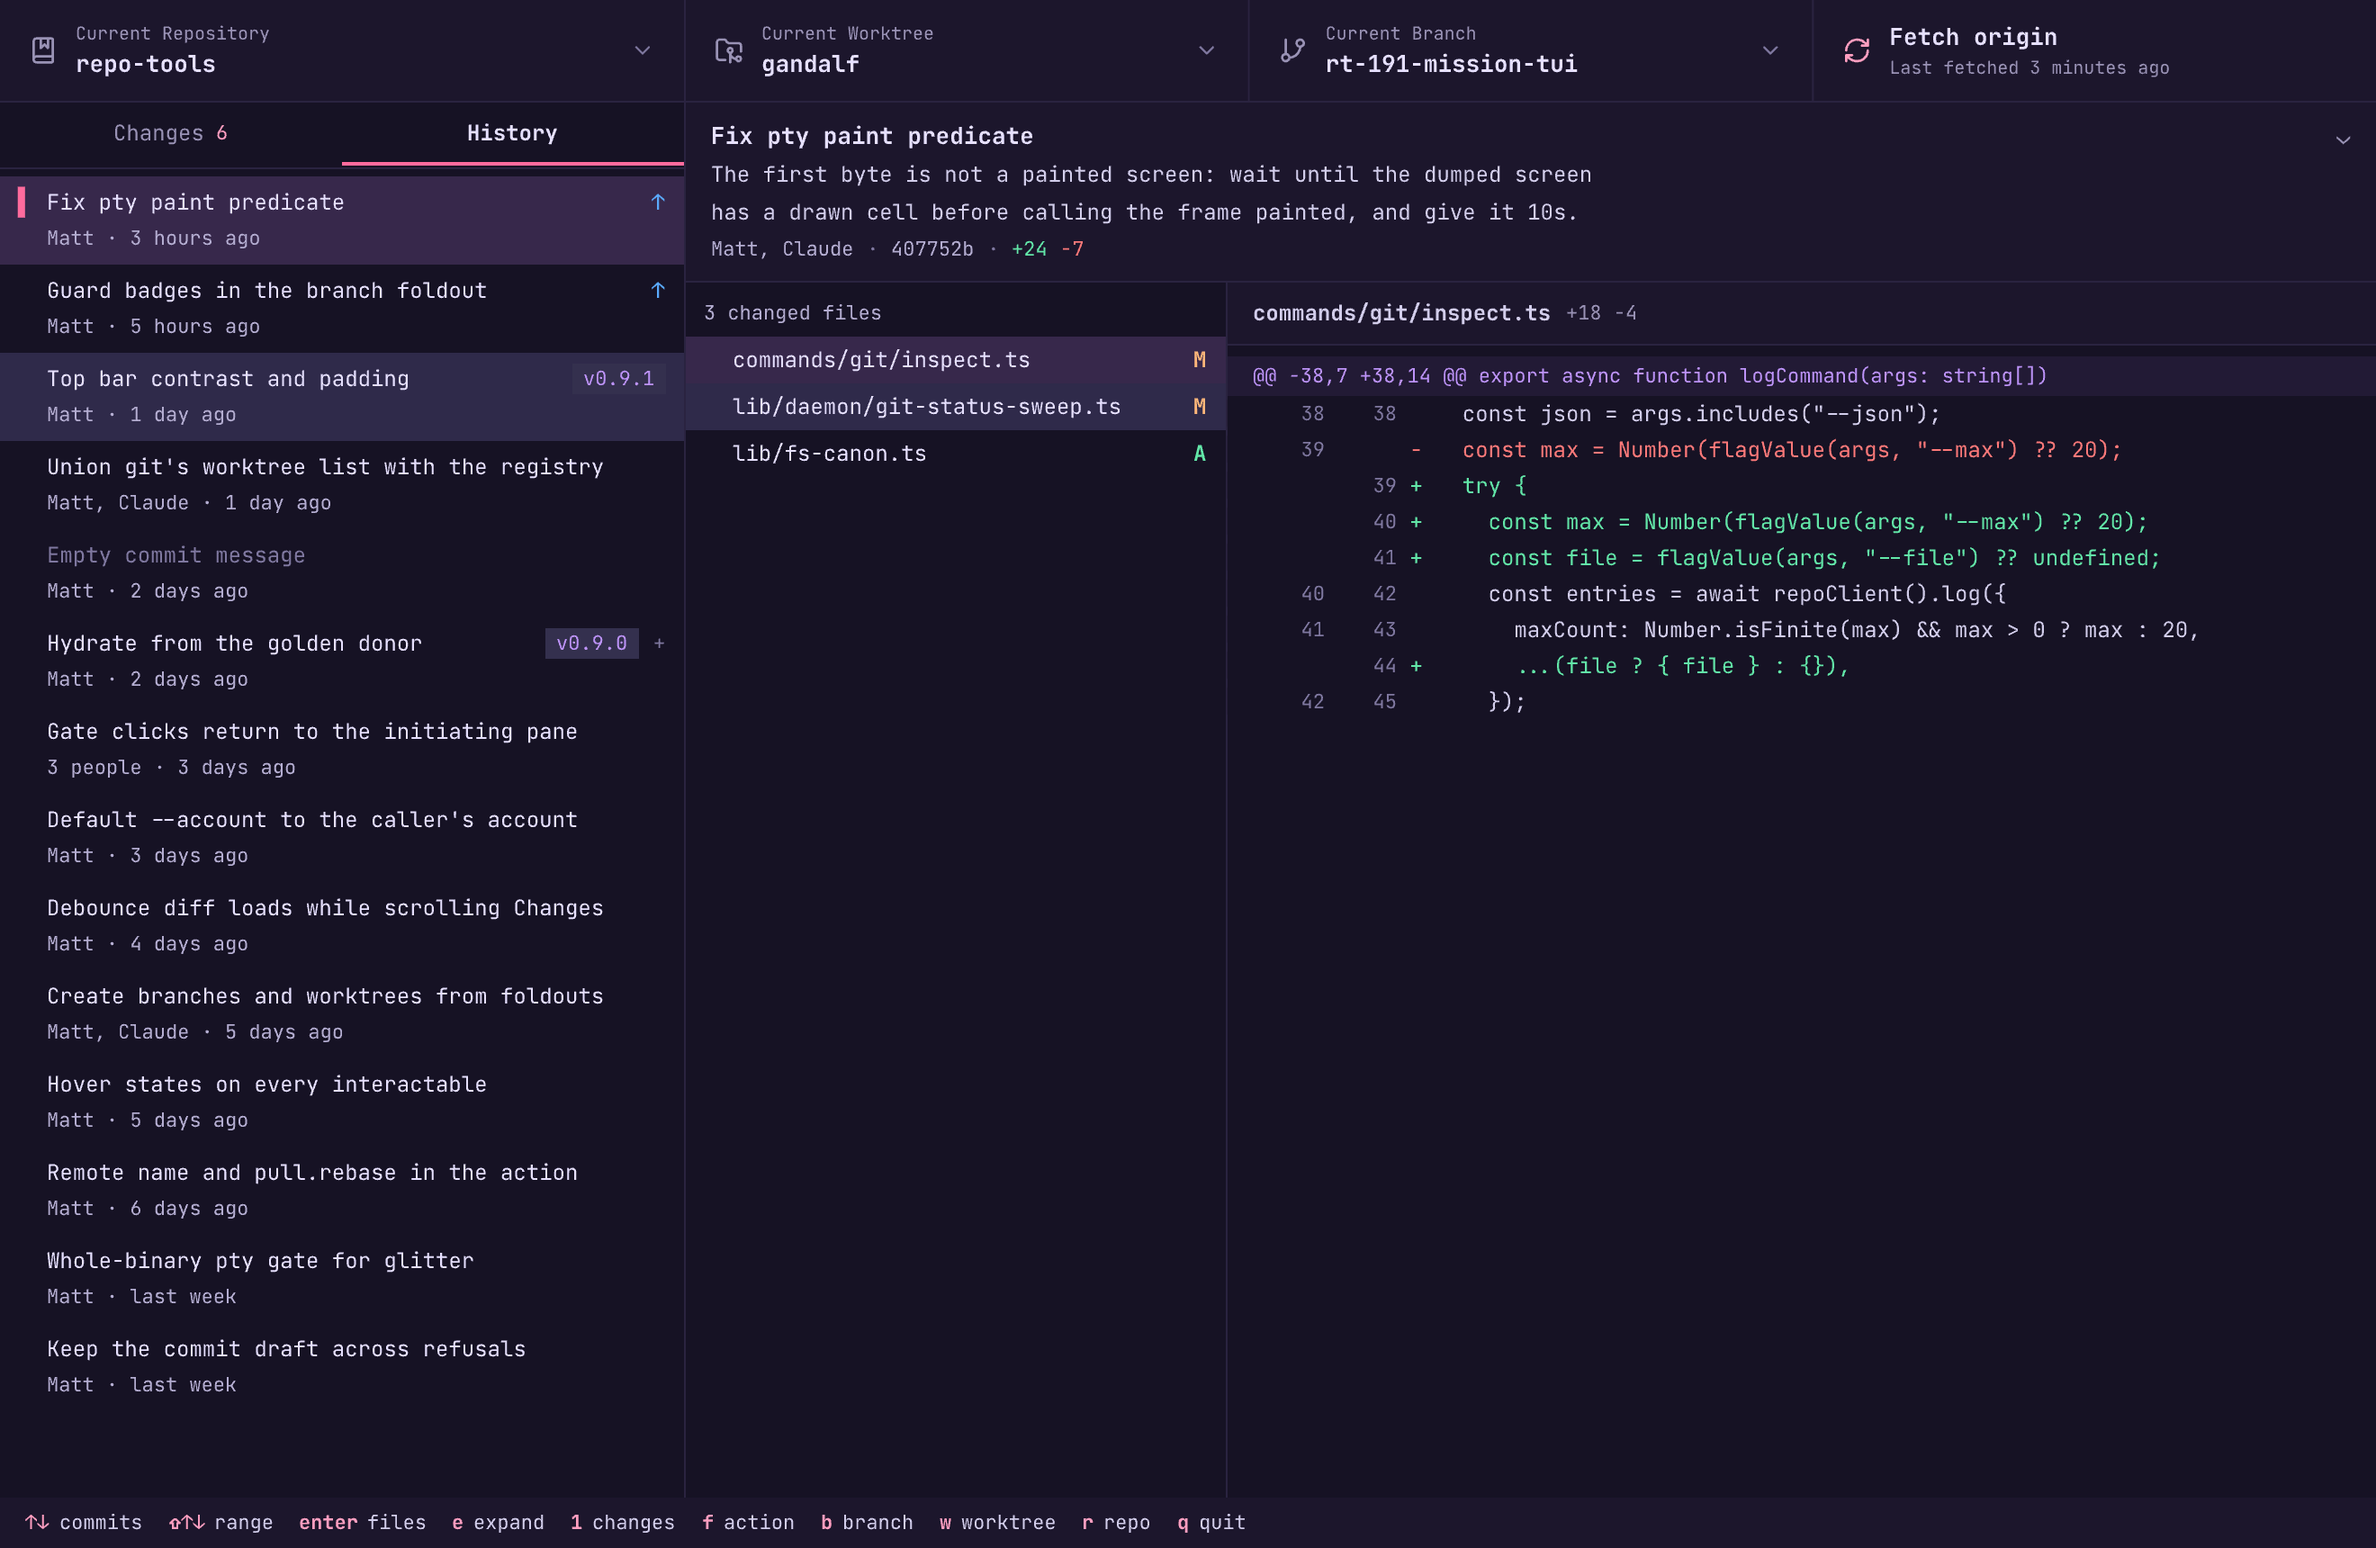
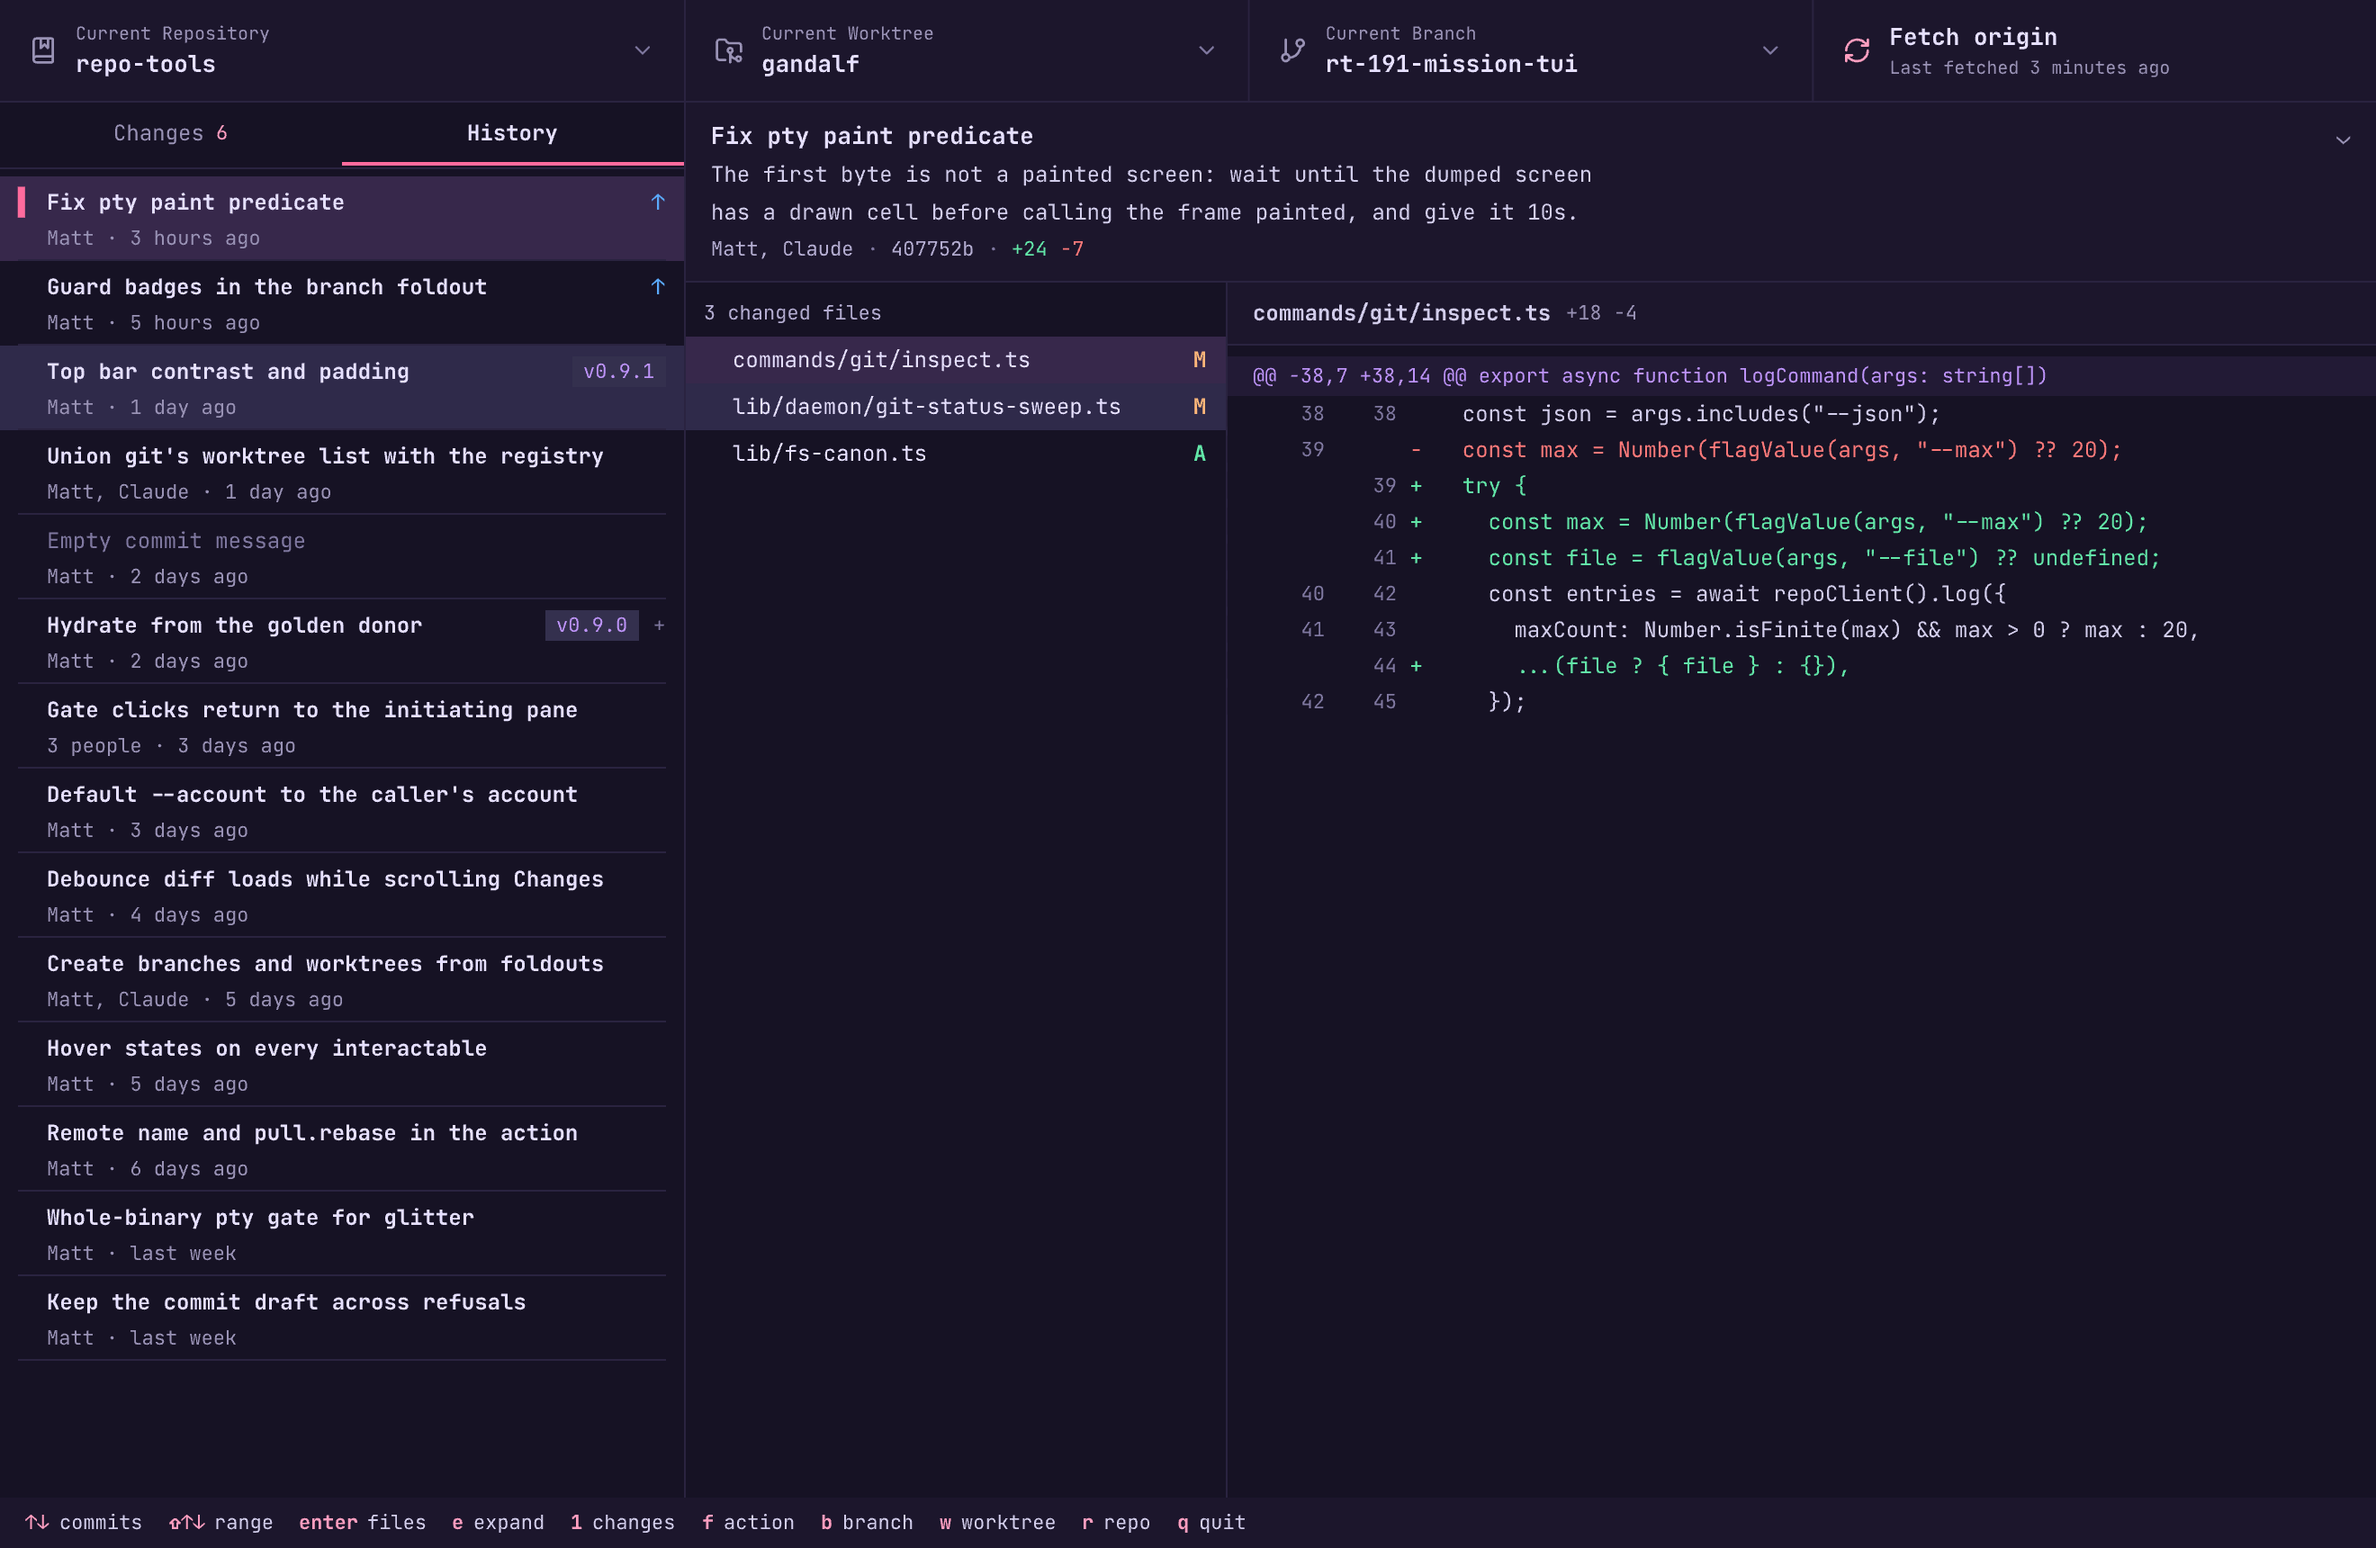
docs: History board and geometry follow the ruled, bold, time-keeping commit rows

Changed region(s): [[0.0, 0.1541, 0.2795, 0.8936]]

diff --git a/docs/design/mission/README.md b/docs/design/mission/README.md
@@ -210,7 +210,7 @@ division.
 | BarRule | 1 | 0.04 | 0 | sub-cell, absorbed — no separate row. |
 | Tabs + TabsRule | 36 + 1 | 1.42 | 2 + 1 blank | the existing tabs row + underline row, then one blank Bg row before the filter box (the rule+gap reads as breathing in the terminal). |
 | History top rows | n/a | n/a | 4 (tabs 3 + gap 1) | `historyFixedTopRows`: the same 3-row tabs strip (pad + label + underline) plus one History-only blank band row before the commit list. |
-| History commit row | n/a | n/a | 2 each | `historyRowHeight`: GHD's two-line commit-list-item, subject line over tags/timestamp/unpushed line. |
+| History commit row | n/a | n/a | 3 each | `historyRowHeight`: GHD's commit-list-item as a bold summary line (tag pill and unpushed ↑ flush right), a Dimmer byline · time line whose byline truncates before the time does, and a Rule separator row standing in for GHD's row border. The separator is inert to hover and click. |
 | FilterRow | 34 | 1.31 | 3 | border / text / border — already correct: a bordered box is 3 physical rows regardless of its own px height. |
 | SummaryRow (master) | 24 | 0.92 | 1 | "N changed files · M staged". |
 | ChangesList row | 26 | 1.00 | 1 each | exact unit match. |
